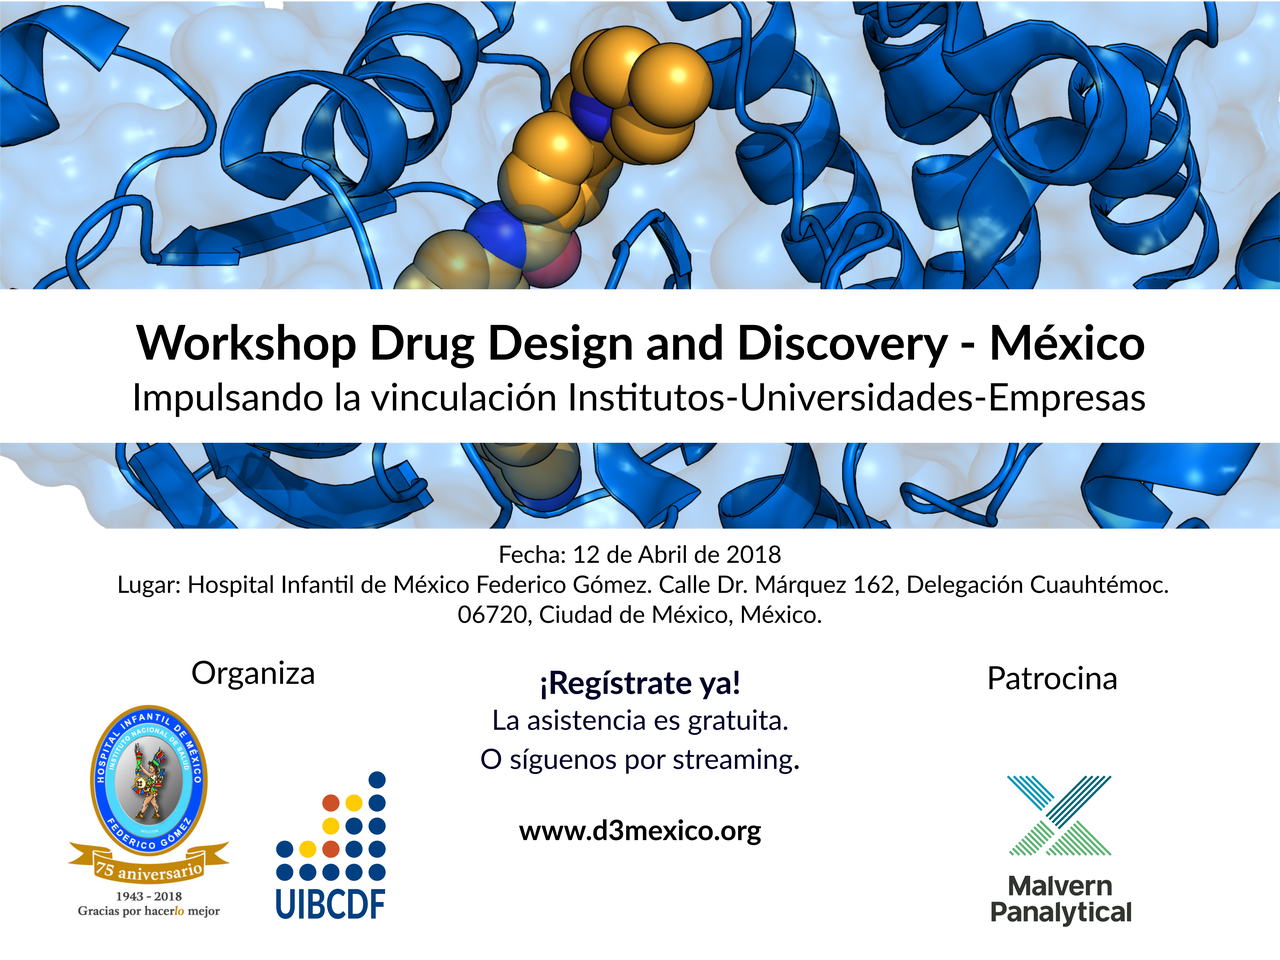
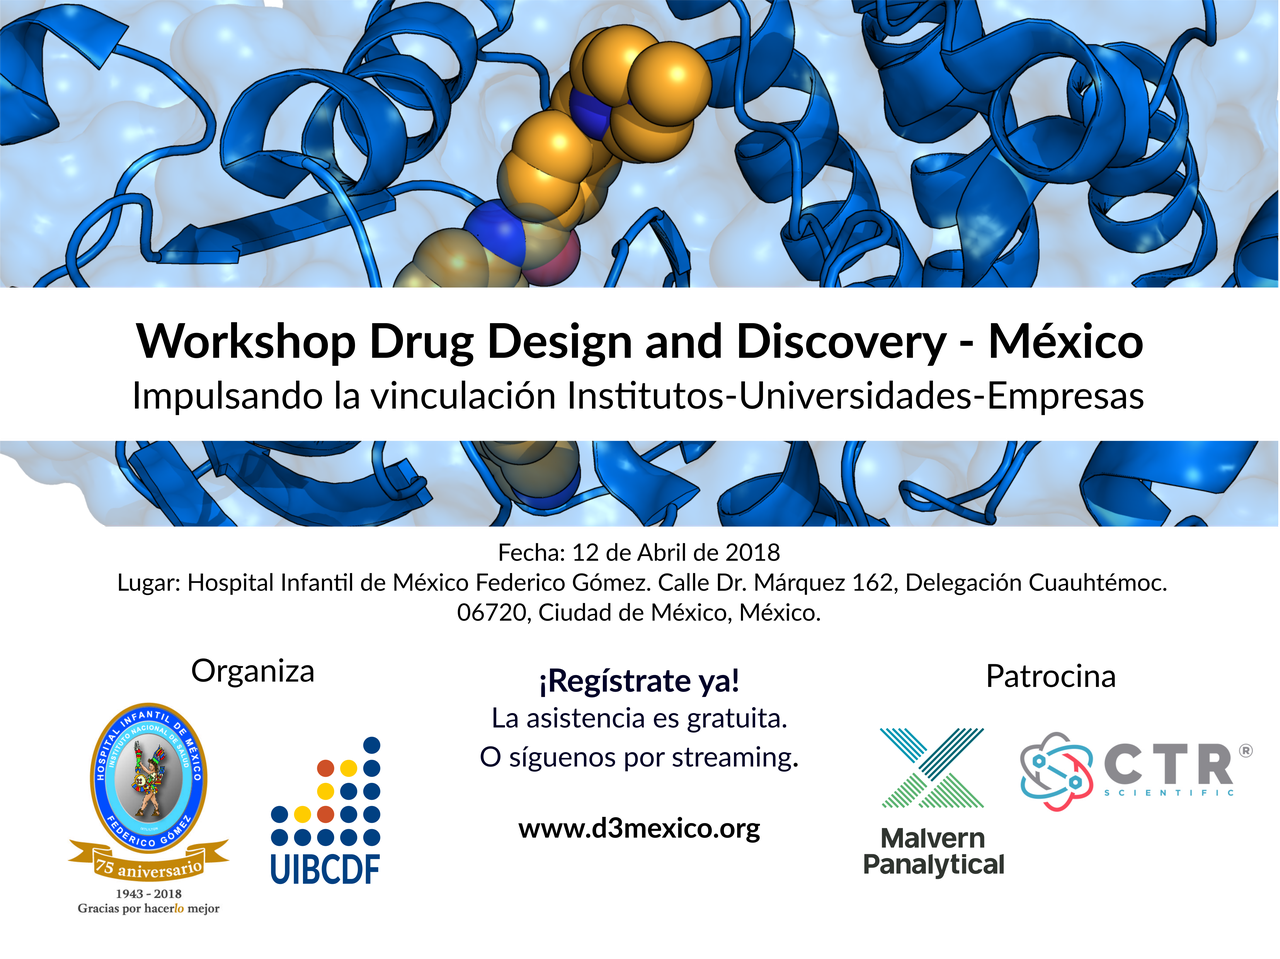
Nikola auto commit.
Source commit: a5a948be3b54ba5c3f24a7a6095c714a8f990c04
Nikola version: 7.8.9

diff --git a/index.html b/index.html
@@ -175,7 +175,9 @@
         <a href="http://malvernpanalytical.com/" style="color:inherit; text-decoration:none">
             <img class="img-responsive" src="images/logos/patrocinadores/LogoMalvernPanalytical.jpg" style="width:60%;"></a>
     </div>
-    <div class="col-md-6" style="margin-top: 8em; margin-bottom: 4em;">
+    <div class="col-md-6" style="margin-top: 4em; margin-bottom: 4em;">
+        <a href="https://www.ctr.com.mx/" style="color:inherit; text-decoration:none">
+            <img class="img-responsive" src="images/logos/patrocinadores/logoctr.jpg" style="width:55%;"></a>
     </div>
 </div>
 
